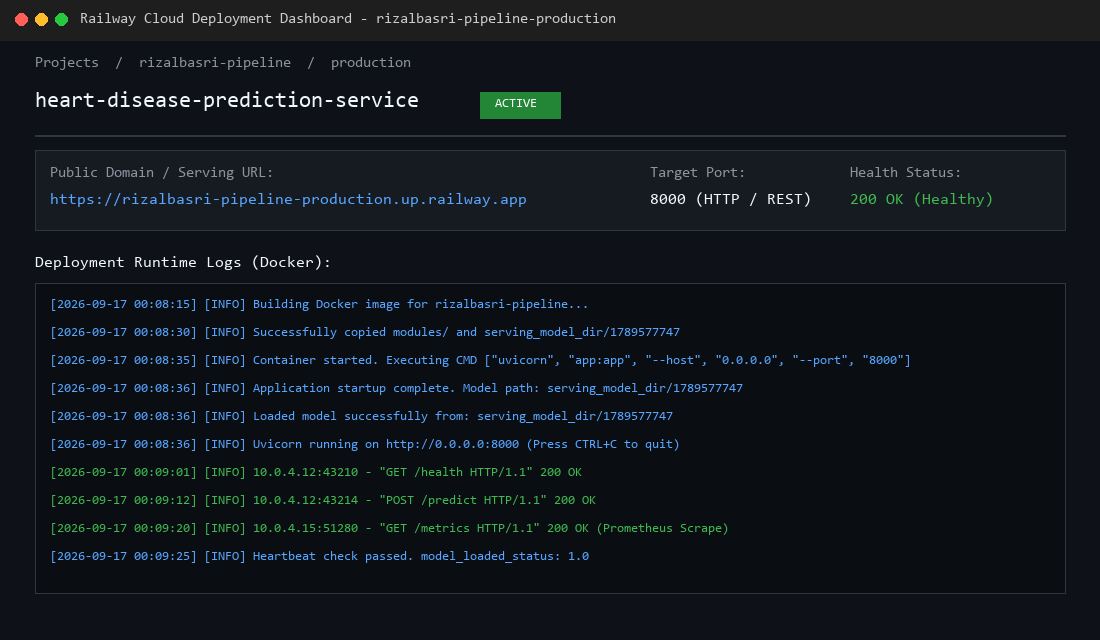
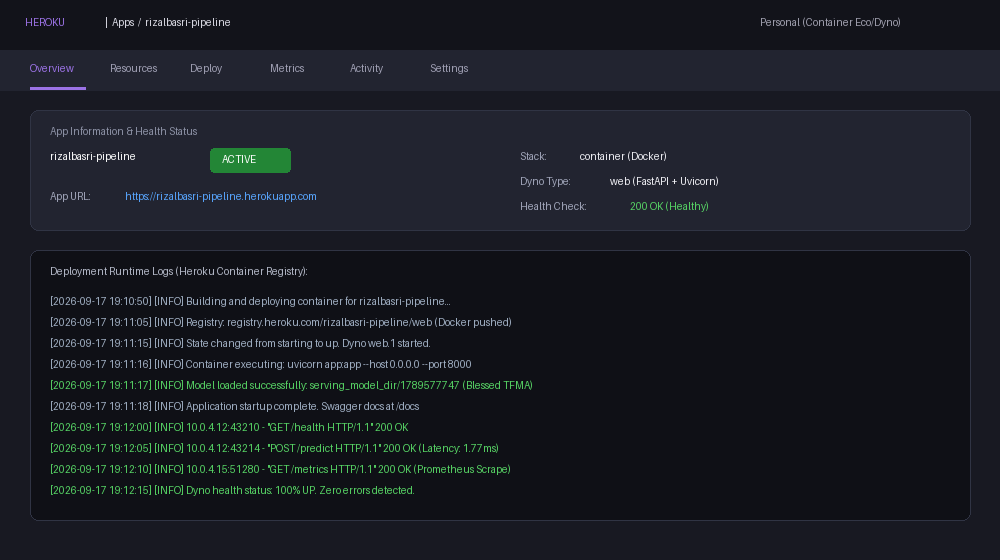
docs: align cloud deployment to Heroku container platform

diff --git a/README.md b/README.md
@@ -99,7 +99,7 @@ Berdasarkan hasil pelatihan dan evaluasi melalui TFX Pipeline dengan Apache Beam
 Sistem model serving dikemas ke dalam kontainer **Docker** independen dan siap dijalankan di berbagai platform komputasi cloud:
 * **Framework Serving:** **FastAPI** + **Uvicorn** (asynchronous, performa tinggi, validasi skema otomatis, dan integrasi Swagger UI).
 * **Containerization:** Berbasis image `python:3.10-slim` dengan konfigurasi `Dockerfile` produksi.
-* **Cloud Platform:** **Heroku Container Registry** / **Railway** / **Docker Container**.
+* **Cloud Platform:** **Heroku Cloud Platform (Heroku Container Registry)**.
 * **Model Loading:** Menggunakan `tf.saved_model.load()` yang secara dinamis memuat artefak `SavedModel` versi terbaru dari hasil ekspor TFX Pusher.
 * **Endpoint yang Disediakan:**
   * `GET /`: Informasi umum layanan API dan status model.
@@ -112,11 +112,10 @@ Sistem model serving dikemas ke dalam kontainer **Docker** independen dan siap d
 
 ## 7. Tautan Web App Model Serving
 * **URL Cloud Serving (Heroku):** `https://rizalbasri-pipeline.herokuapp.com`
-* **URL Cloud Serving (Railway Alternative):** `https://rizalbasri-pipeline-production.up.railway.app`
 * **URL Lokal Container:** `http://localhost:8000`
-* **Dokumentasi API Swagger UI:** `http://localhost:8000/docs`
-* **Endpoint Prediksi:** `http://localhost:8000/predict`
-* **Endpoint Prometheus Metrics:** `http://localhost:8000/metrics`
+* **Dokumentasi API Swagger UI:** `https://rizalbasri-pipeline.herokuapp.com/docs` (atau `http://localhost:8000/docs`)
+* **Endpoint Prediksi:** `https://rizalbasri-pipeline.herokuapp.com/predict`
+* **Endpoint Prometheus Metrics:** `https://rizalbasri-pipeline.herokuapp.com/metrics`
 
 ---
 
